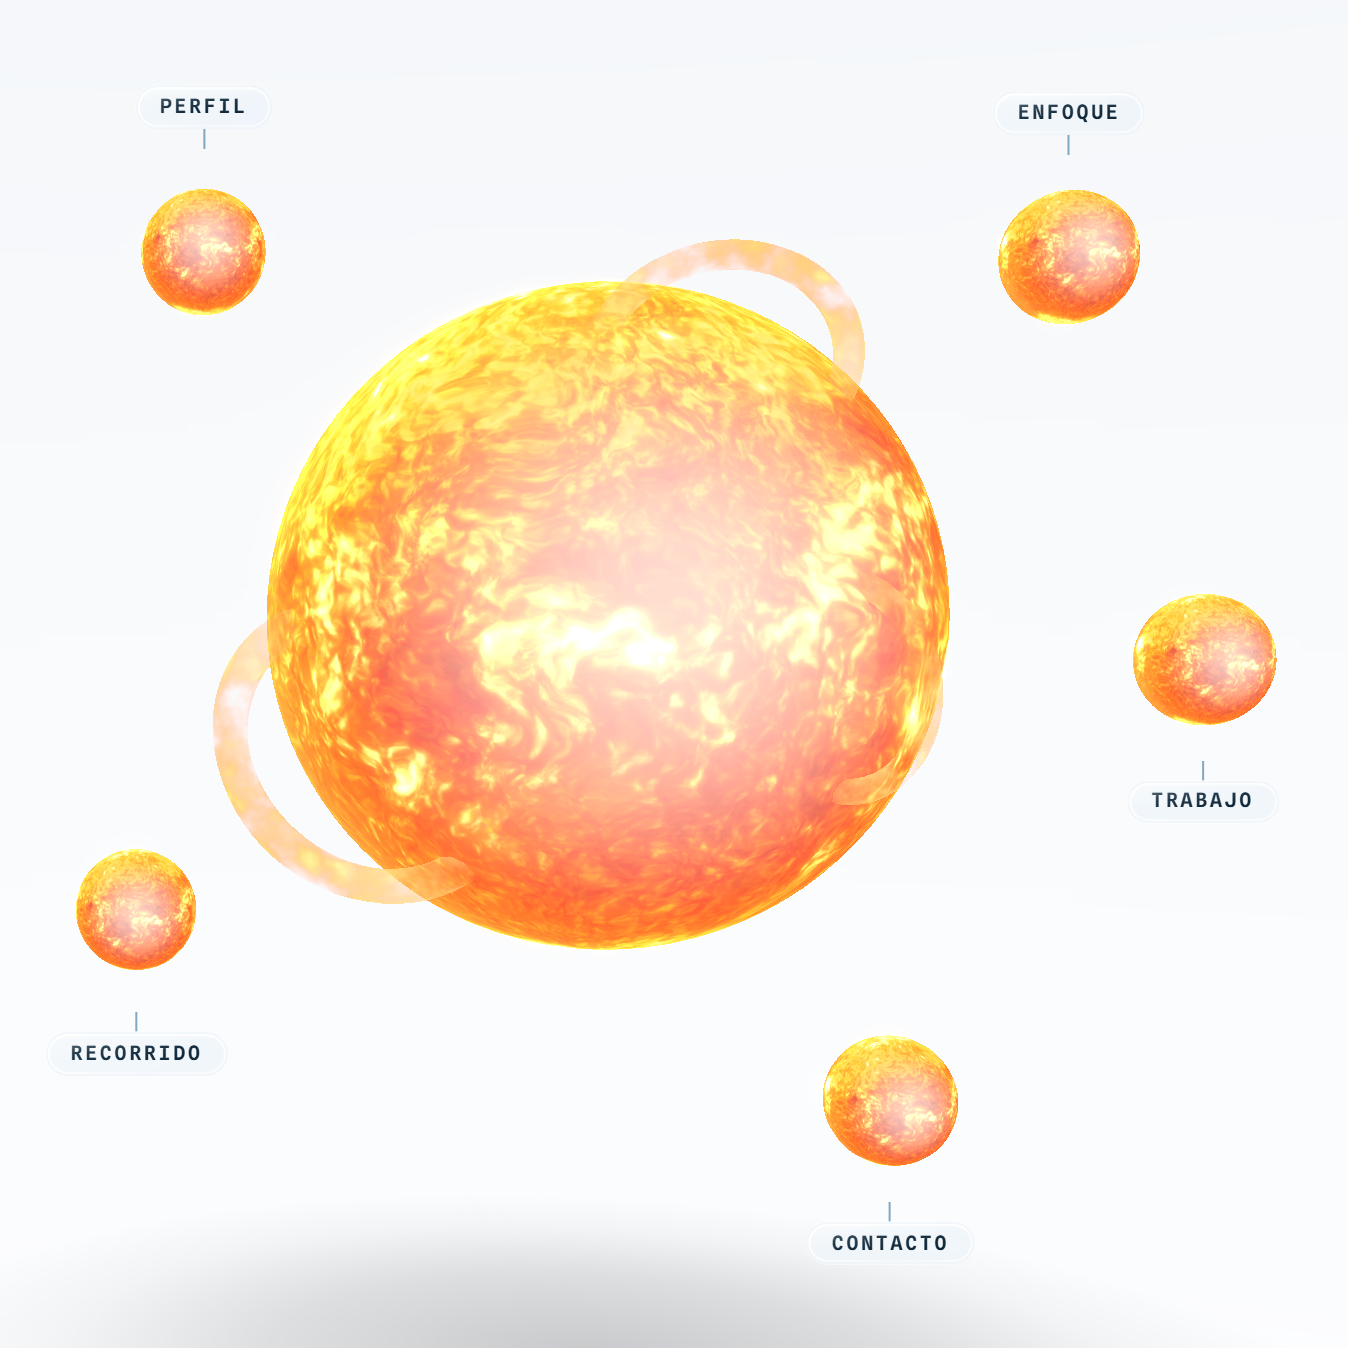
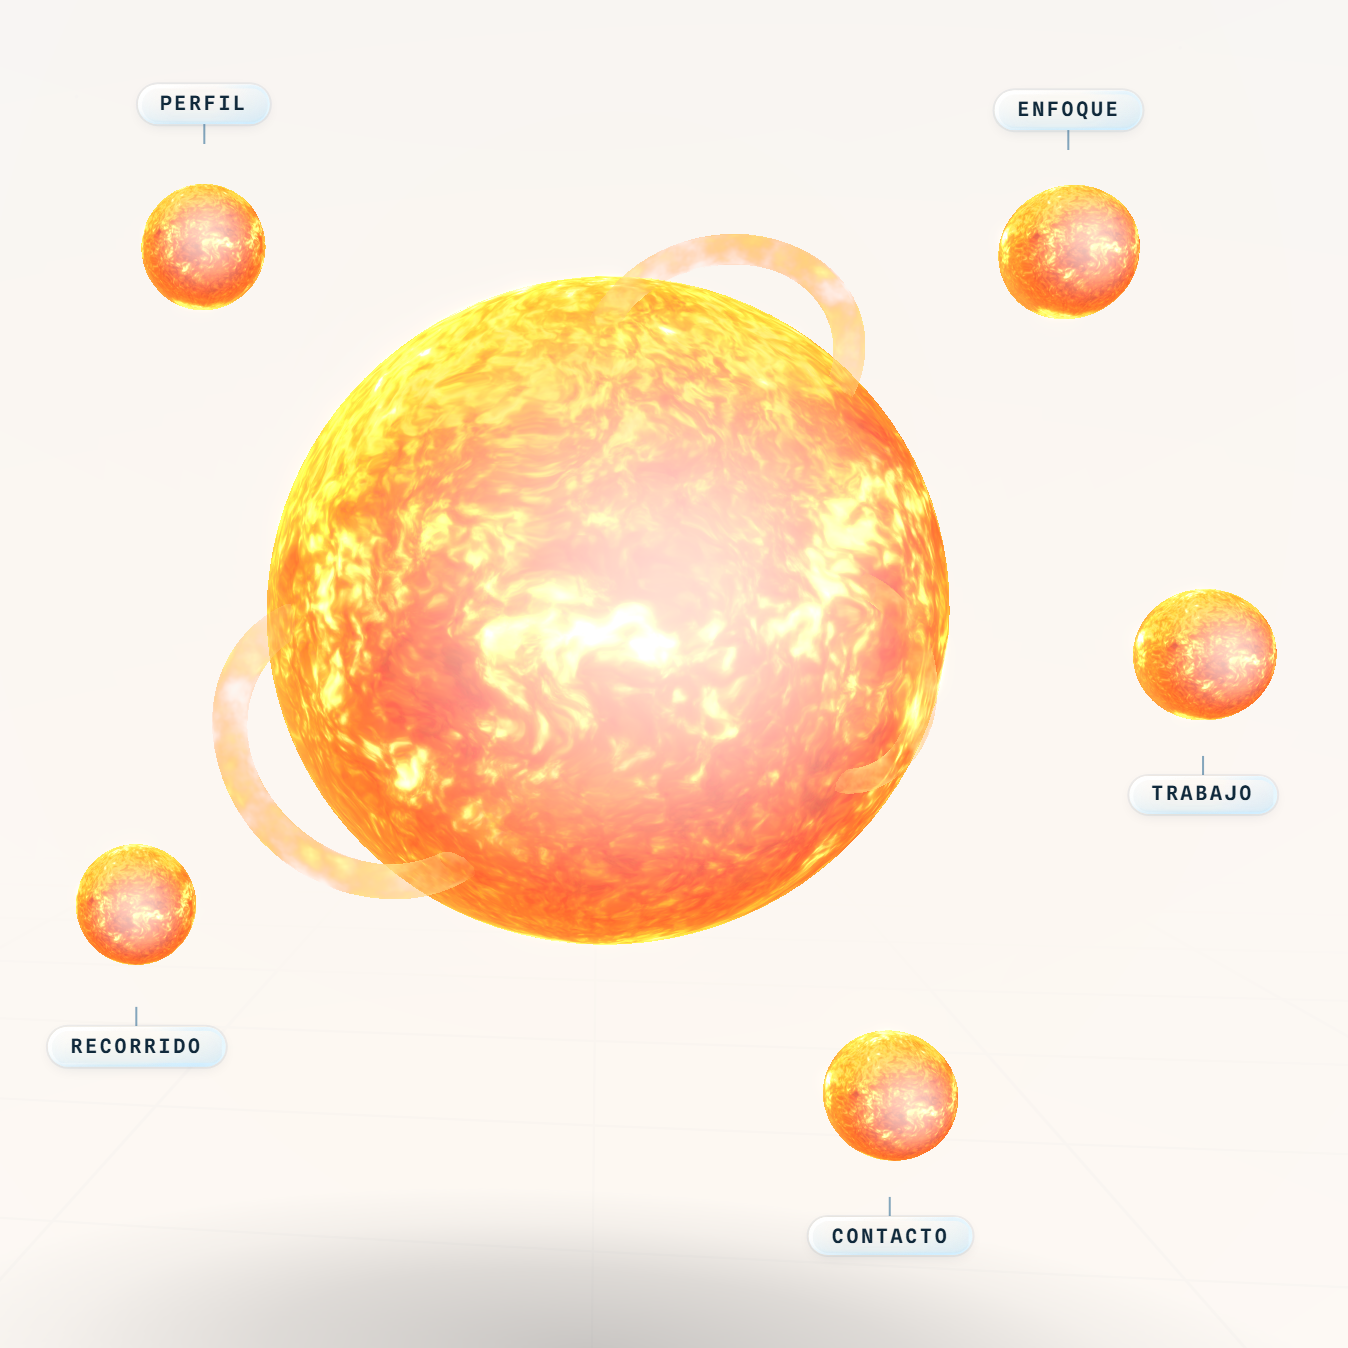
v5.12.0 — Estudio con textura, vidrio interactivo y el Chrome del iPhone arreglado
El bug del iPhone era mío y grave: en iOS todos los navegadores son WebKit por
regla de Apple — "Chrome" en iPhone es Safari con otra cara y su UA dice CriOS.
Mi detección lo trataba como Chromium, le escribía la cadena con url() y WebKit
descartaba la declaración entera: ni lente ni blur, solo transparencia (lo que
Feli veía). iOS ahora es siempre frost. Verificado con el UA real de CriOS:
motor frost, cero cadenas inline, blur vivo.

El tirón del interlineado del nombre era matemática: con 90ms de delay entre
líneas el gap no es monótono — la de arriba aterriza primero y la de abajo
sigue subiendo su resto, cerrando el gap al final. Mismo reloj para las dos
(la cascada la dan las letras). Verificado muestreando el gap real: 134.5 →
138.2px monótono, retroceso 0.00px, termina en el máximo y se queda.

Las ideas aprobadas:
1. Estudio con textura (GLSL): grilla técnica en el piso (gnomónica, AA por
   fwidth, doble desvanecido) + puntos sutiles en la pared. La lente necesita
   detalle que doblar y ahora lo tiene siempre.
2. Resplandor del sol: lobe cálido en la pared + pileta en el piso, después de
   la grilla (la entibia). Todo < 1.0: el bloom no florece.
3. CTA prominente (tinted glass): Hablemos con la cara al azul de identidad,
   AA verificado. Sigue siendo vidrio: la lente dobla detrás del tinte.
4. Vidrio interactivo: al presionar, la lupa se hunde (depth ×1.8, strength
   ×1.4, CA +2) y vuelve al soltar. Cadenas precalculadas, listeners una vez.
[…]

diff --git a/app/globals.css b/app/globals.css
@@ -318,11 +318,16 @@ body {
   font-variation-settings: "wght" var(--w);
 }
 
-/* Entrada: la línea sube y cada letra se forma, en cascada. */
+/* Entrada: las líneas suben JUNTAS (mismo reloj, sin delay por línea) y cada
+   letra se forma en cascada. El delay de 90ms que había acá era el "tirón" que
+   reportó Felipe: la línea de arriba aterrizaba primero y la de abajo seguía
+   subiendo su resto — y subir la de abajo CIERRA el interlineado al final.
+   Con el mismo reloj y la de arriba subiendo el doble (--sube), el gap crece
+   monótono de 0.86 a 0.95 y se queda en el pico. La cascada la siguen dando
+   las letras (nombre-forma, índice global). */
 .nombre.is-in .nombre__linea {
   opacity: 1;
   animation: nombre-sube 1s cubic-bezier(0.16, 1, 0.3, 1) backwards;
-  animation-delay: calc(var(--l, 0) * 90ms);
 }
 .nombre.is-in .nombre__letra {
   animation: nombre-forma 0.9s cubic-bezier(0.16, 1, 0.3, 1) backwards;
@@ -422,19 +427,37 @@ body {
      plana refleja el estudio; entra fuerte arriba-izquierda, se apaga en el
      medio y vuelve tenue abajo-derecha, coherente con el bisel del ::after). */
   background-color: var(--glass-bg);
-  /* El REFLEJO de cara (las fotos de referencia de Felipe: paneles de vidrio
-     con un barrido blanco diagonal bien visible). Dos luces: la entrada fuerte
-     por arriba-izquierda y una réplica FRÍA (celeste, el cielo reflejado) por
-     abajo-derecha. Pinta DETRÁS de los hijos: nunca vela texto ni capturas. */
-  background-image: linear-gradient(
-    115deg,
-    rgba(255, 255, 255, 0.5) 0%,
-    rgba(255, 255, 255, 0.16) 18%,
-    rgba(255, 255, 255, 0) 34%,
-    rgba(255, 255, 255, 0) 58%,
-    rgba(214, 238, 252, 0.22) 78%,
-    rgba(214, 238, 252, 0.06) 100%
-  );
+  /* Dos capas de luz, pintadas DETRÁS de los hijos (nunca velan texto ni
+     capturas):
+     1. El BARRIDO en hover: una línea de luz diagonal que cruza el vidrio,
+        como la luz corriéndose sobre un vidrio real al inclinarlo. En reposo
+        espera fuera de cuadro (-160%); .glass-hover:hover la hace viajar.
+     2. El REFLEJO de cara (las fotos de referencia de Felipe): entrada fuerte
+        por arriba-izquierda y réplica FRÍA (el cielo) por abajo-derecha. */
+  background-image:
+    linear-gradient(
+      105deg,
+      rgba(255, 255, 255, 0) 42%,
+      rgba(255, 255, 255, 0.5) 50%,
+      rgba(210, 240, 255, 0.28) 55%,
+      rgba(255, 255, 255, 0) 62%
+    ),
+    linear-gradient(
+      115deg,
+      rgba(255, 255, 255, 0.5) 0%,
+      rgba(255, 255, 255, 0.16) 18%,
+      rgba(255, 255, 255, 0) 34%,
+      rgba(255, 255, 255, 0) 58%,
+      rgba(214, 238, 252, 0.22) 78%,
+      rgba(214, 238, 252, 0.06) 100%
+    );
+  background-size:
+    240% 100%,
+    100% 100%;
+  background-position:
+    -160% 0,
+    0 0;
+  background-repeat: no-repeat;
   /* Frost: blur bajo + saturación (lo de atrás se ablanda pero SE VE). Sin
      brightness: aclarar el backdrop es lo que lo volvía plástico lechoso. */
   -webkit-backdrop-filter: blur(var(--glass-blur)) saturate(170%);
@@ -526,17 +549,36 @@ html[data-lente-motor="frost"] .glass::before {
 .glass-pill {
   border-radius: 9999px;
 }
+/* Vidrio PROMINENTE (el "tinted glass" de Apple): la cara toma el azul de la
+   identidad con alpha — sigue siendo vidrio (el fondo pasa, la lente dobla, el
+   canto brilla) pero de COLOR, y por eso se lee como vidrio incluso sobre el
+   estudio blanco. Para el CTA principal. El texto va claro: 0.78 de alpha
+   sobre blanco compone ~#425f80 → contraste AA con #f2f8fc. */
+.glass-prominent {
+  background-color: rgba(11, 83, 133, 0.78);
+  color: #f2f8fc;
+}
 @media (hover: hover) {
   .glass-hover {
     transition:
       background-color 0.3s ease,
       box-shadow 0.3s ease,
+      background-position 0.9s cubic-bezier(0.25, 0.6, 0.3, 1),
       transform 0.3s cubic-bezier(0.2, 0.6, 0.2, 1);
   }
   .glass-hover:hover {
     background-color: var(--glass-bg-2);
     box-shadow: var(--glass-drop-hover), var(--glass-glints);
     transform: translateY(-2px);
+    /* El BARRIDO especular: la línea de luz cruza el vidrio en diagonal (la
+       primera capa de background viaja de -160% a 160%; la cara queda quieta). */
+    background-position:
+      160% 0,
+      0 0;
+  }
+  /* El tintado conserva su cara azul al hover (no la de vidrio claro). */
+  .glass-prominent.glass-hover:hover {
+    background-color: rgba(13, 92, 148, 0.85);
   }
 }
 

diff --git a/components/ui/LiquidGlass.tsx b/components/ui/LiquidGlass.tsx
@@ -23,15 +23,30 @@ import { filtroLente, paramsPara } from "@/lib/lente";
  * de la fuente. Se regenera al redimensionar; el costo es armar un string.
  */
 
-/** ¿Chromium? Es el único motor que aplica filtros SVG en backdrop-filter.
- * Detección por UA como el componente de referencia: no hay feature-detect
- * confiable (Safari PARSEA `backdrop-filter: url()` como válido y después lo
- * ignora o lo rompe, así que CSS.supports miente). */
+/** ¿Chromium DE VERDAD? Es el único motor que aplica filtros SVG en
+ * backdrop-filter. Detección por UA como el componente de referencia: no hay
+ * feature-detect confiable (Safari PARSEA `backdrop-filter: url()` como válido
+ * y después lo descarta, así que CSS.supports miente).
+ *
+ * La trampa que rompió el celular de Feli: en iOS TODOS los navegadores son
+ * WebKit por regla de Apple — "Chrome" en iPhone es Safari con otra cara y su
+ * UA dice `CriOS` (Edge dice `EdgiOS`). La primera versión trataba CriOS como
+ * Chromium, le escribía la cadena con url()... y WebKit descartaba la
+ * declaración ENTERA: ni lente ni blur, solo transparencia. iOS es frost,
+ * siempre, sin importar el nombre del navegador. */
 function soportaLente(): boolean {
   const ua = navigator.userAgent.toLowerCase();
-  const esChromium = /chrome|chromium|crios|edg/.test(ua) && !/firefox|fxios/.test(ua);
+  // iPad moderno se disfraza de Mac; lo delata el multitouch.
+  const esIOS =
+    /iphone|ipad|ipod/.test(ua) ||
+    (ua.includes("mac") && navigator.maxTouchPoints > 1);
+  if (esIOS) return false;
+  const esChromium = /chrome|chromium|edg/.test(ua) && !/firefox/.test(ua);
   return esChromium && CSS.supports("backdrop-filter", "blur(1px)");
 }
+
+/** Las dos cadenas de cada elemento: reposo y PRESIONADO (la lupa se hunde). */
+const cadenas = new WeakMap<HTMLElement, { normal: string; honda: string }>();
 
 /** Mutación imperativa fuera del componente (regla react-hooks/immutability). */
 function aplicarLente(el: HTMLElement) {
@@ -44,14 +59,47 @@ function aplicarLente(el: HTMLElement) {
   const radio = parseFloat(getComputedStyle(el).borderTopLeftRadius) || 0;
   // data-lente="suave" = vidrio en flujo (cards en grillas): lente contenida
   // para no traer a la card vecina adentro. Ver paramsPara.
-  const p = paramsPara(r.width, r.height, radio, el.dataset.lente === "suave");
+  const suave = el.dataset.lente === "suave";
+  const p = paramsPara(r.width, r.height, radio, suave);
   const b = Math.min(p.width, p.height) < 30 ? 1 : 2;
   // Sin brightness: aclarar el backdrop es lo que vuelve "leche" al vidrio
   // (calibración v5.8); el saturate acompaña al frost de la clase (170%).
-  const filtro = `blur(${b / 2}px) url('${filtroLente(p)}') blur(${b}px) saturate(1.7)`;
-  el.style.backdropFilter = filtro;
+  const arma = (q: typeof p) =>
+    `blur(${b / 2}px) url('${filtroLente(q)}') blur(${b}px) saturate(1.7)`;
+  const normal = arma(p);
+  el.style.backdropFilter = normal;
   // TS/DOM no expone webkitBackdropFilter tipado; en Chromium alcanza el estándar.
   el.dataset.liquid = clave;
+
+  if (suave) return;
+  // VIDRIO INTERACTIVO (el .interactive() de SwiftUI, el "clicked" del
+  // componente de referencia): al PRESIONAR, la lupa se hunde — más espesor
+  // óptico y más aberración por un instante. Solo el vidrio flotante (el
+  // suave no es un control). Las cadenas se precalculan acá (nada de armar
+  // data URIs en el pointerdown) y los listeners se cablean UNA vez.
+  cadenas.set(el, {
+    normal,
+    honda: arma({
+      ...p,
+      depth: Math.round(p.depth * 1.8),
+      strength: Math.round(p.strength * 1.4),
+      chromaticAberration: p.chromaticAberration + 2,
+    }),
+  });
+  if (el.dataset.lenteInteractiva) return;
+  el.dataset.lenteInteractiva = "1";
+  const hundir = () => {
+    const c = cadenas.get(el);
+    if (c) el.style.backdropFilter = c.honda;
+  };
+  const soltar = () => {
+    const c = cadenas.get(el);
+    if (c) el.style.backdropFilter = c.normal;
+  };
+  el.addEventListener("pointerdown", hundir);
+  el.addEventListener("pointerup", soltar);
+  el.addEventListener("pointerleave", soltar);
+  el.addEventListener("pointercancel", soltar);
 }
 
 export function LiquidGlass() {

diff --git a/components/three/Studio.tsx b/components/three/Studio.tsx
@@ -32,18 +32,65 @@ const domeVertex = /* glsl */ `
 `;
 /* Gradiente de ciclorama: piso casi blanco → pared gris muy claro, con un
  * apenas-más-oscuro en el rincón inferior (la unión piso-pared). Sin tonemap
- * (shader crudo) → el blanco se mantiene blanco. Sin `precision` a mano:
- * three antepone la máxima soportada (highp explícito no compila en GPUs sin
- * highp fragment y la cúpula desaparecería). */
+ * (shader crudo) → el blanco se mantiene blanco y NADA llega a 1.0 (el bloom
+ * del canvas corta en 1.0: el estudio no debe florecer jamás). Sin `precision`
+ * a mano: three antepone la máxima soportada (highp explícito no compila en
+ * GPUs sin highp fragment y la cúpula desaparecería).
+ *
+ * v5.12 — el estudio deja de ser liso, por pedido de Felipe y por el VIDRIO
+ * (la lente del Liquid Glass solo se ve si atrás hay detalle que doblar):
+ *  - PISO: grilla fina tipo papel técnico. El rayo del ciclorama se proyecta
+ *    sobre el plano del piso (gnomónica: p = dir.xz/|dir.y|) → líneas RECTAS
+ *    con perspectiva real, como cinta de marcado de un estudio fotográfico.
+ *    AA por fwidth, y doble desvanecido (horizonte + distancia).
+ *  - PARED: matriz de puntos apenas visible (proyección al plano frontal).
+ *  - RESPLANDOR: el sol tiñe la pared de atrás y el piso cercano con un lobe
+ *    cálido difuso. Además de clima, es un gradiente de COLOR: la aberración
+ *    cromática del vidrio lo agarra muchísimo mejor que el gris parejo. */
 const domeFragment = /* glsl */ `
   varying vec3 vDir;
+
+  /* Malla de líneas con AA sobre coords proyectadas (una línea por unidad). */
+  float lineas(vec2 p) {
+    vec2 g = abs(fract(p - 0.5) - 0.5) / fwidth(p);
+    float d = min(g.x, g.y);
+    return 1.0 - smoothstep(0.6, 1.6, d);
+  }
+
   void main() {
-    float y = clamp(vDir.y * 0.5 + 0.5, 0.0, 1.0); // 0 abajo .. 1 arriba
+    vec3 dir = normalize(vDir);
+    float y = clamp(dir.y * 0.5 + 0.5, 0.0, 1.0); // 0 abajo .. 1 arriba
     vec3 floorC = vec3(0.972, 0.980, 0.990);
     vec3 wallC  = vec3(0.843, 0.874, 0.912);
     vec3 c = mix(floorC, wallC, smoothstep(0.30, 1.0, y));
     c = mix(c, wallC * 0.965, smoothstep(0.24, 0.0, y) * 0.5);
-    gl_FragColor = vec4(c, 1.0);
+
+    /* PISO: grilla técnica (solo por debajo del horizonte). */
+    if (dir.y < -0.045) {
+      vec2 p = dir.xz / -dir.y * 1.15;
+      float fade = smoothstep(0.045, 0.16, -dir.y)
+                 * (1.0 - smoothstep(4.0, 11.0, length(p)));
+      c = mix(c, vec3(0.665, 0.735, 0.80), lineas(p) * fade * 0.16);
+    }
+
+    /* PARED: puntos sutiles (plano frontal, donde mira la cámara). */
+    if (dir.z < -0.1 && dir.y > 0.02) {
+      vec2 q = vec2(dir.x, dir.y) / -dir.z * 2.1;
+      vec2 celda = fract(q) - 0.5;
+      float punto = 1.0 - smoothstep(1.1, 2.2, length(celda) / max(fwidth(q.x), 1e-4));
+      float fadeW = smoothstep(0.02, 0.14, dir.y)
+                  * (1.0 - smoothstep(2.2, 5.0, length(q)));
+      c = mix(c, vec3(0.70, 0.77, 0.84), punto * fadeW * 0.10);
+    }
+
+    /* RESPLANDOR del sol: va DESPUÉS de la grilla (también la entibia — una
+       línea bajo luz naranja se ve naranja, no gris). Tope < 1.0, sin bloom. */
+    float lobe = pow(clamp(dot(dir, normalize(vec3(0.0, -0.10, -1.0))), 0.0, 1.0), 3.5);
+    c = mix(c, vec3(0.998, 0.878, 0.746), lobe * 0.42);
+    float pileta = pow(clamp(dot(dir, normalize(vec3(0.0, -1.0, -0.35))), 0.0, 1.0), 7.0);
+    c = mix(c, vec3(0.995, 0.885, 0.77), pileta * 0.30);
+
+    gl_FragColor = vec4(min(c, vec3(0.999)), 1.0);
   }
 `;
 

diff --git a/components/sections/GraphHome.tsx b/components/sections/GraphHome.tsx
@@ -641,15 +641,16 @@ export function GraphHome({ children }: { children: ReactNode }) {
                   Ver el trabajo
                   <ArrowDown className="size-4 text-acento transition-transform group-hover:translate-y-0.5" />
                 </button>
+                {/* CTA principal en vidrio PROMINENTE (tintado de acento):
+                    jerarquía sin perder el material. */}
                 <button
                   type="button"
                   data-lente
-
                   onClick={() => goto("contacto")}
-                  className="glass glass-hover glass-pill group inline-flex items-center gap-2 px-6 py-3.5 font-mono text-xs tracking-wide text-chalk"
+                  className="glass glass-prominent glass-hover glass-pill group inline-flex items-center gap-2 px-6 py-3.5 font-mono text-xs tracking-wide"
                 >
                   Hablemos
-                  <ArrowUpRight className="size-4 text-acento transition-transform group-hover:translate-x-0.5 group-hover:-translate-y-0.5" />
+                  <ArrowUpRight className="size-4 transition-transform group-hover:translate-x-0.5 group-hover:-translate-y-0.5" />
                 </button>
               </div>
             </div>

diff --git a/DECISIONS.md b/DECISIONS.md
@@ -3,7 +3,7 @@
 Registro de las decisiones no triviales del proyecto (diseño, arquitectura,
 dependencias y bugs). Se actualiza en cada fase.
 
-> La sección **v5.11** es la vigente. Debajo quedan v3.2, v3.1, v3.0, v2.x y
+> La sección **v5.12** es la vigente. Debajo quedan v3.2, v3.1, v3.0, v2.x y
 > la v1 como registro histórico.
 
 ---
@@ -1264,6 +1264,56 @@ Endurecimiento GPU, además (cinturón y tiradores para "todos los dispositivos"
 en los tres) · **SwiftShader** (GPU en blocklist, el caso real de la netbook):
 sol visible, 0 errores de consola · gap del nombre medido (arriba) · hover, HUD,
 chips, cards y página de proyecto inspeccionados de cerca en 2x · `smoke`.
+---
+
+## v5.12 — El estudio con textura, el vidrio interactivo y el iPhone arreglado
+
+### El bug del "Chrome sin blur" en el iPhone (era mío, y grave)
+Felipe reportó que en Chrome de su iPhone no había blur, solo transparencia.
+Causa: en iOS TODOS los navegadores son WebKit por regla de Apple — "Chrome"
+en iPhone es Safari con otra cara y su UA dice `CriOS`. Mi detección trataba
+CriOS como Chromium, le escribía la cadena con url()... y WebKit descartaba la
+declaración ENTERA: ni lente ni blur. Ahora iOS (iphone/ipad/ipod, y el iPad
+que se disfraza de Mac pero lo delata el multitouch) es SIEMPRE frost.
+Verificado con el UA real de CriOS: motor frost, cero cadenas inline, blur
+vivo. La distorsión real en iOS sigue siendo imposible (limitación de WebKit,
+no nuestra): ahí queda el frost + canto + reflejos, que es el mismo fallback
+del componente de referencia.
+
+### El tirón del interlineado del nombre (matemática, no estilo)
+La v5.8 dejaba el interlineado en el pico (0.95) con las líneas subiendo
+distancias distintas — pero mantenía un delay de 90ms entre líneas. Con ese
+desfase el gap NO es monótono: la línea de arriba aterriza primero y la de
+abajo sigue subiendo su resto, y subir la de abajo CIERRA el gap al final (el
+"tirón" que Felipe veía). Fix: mismo reloj para las dos líneas (sin delay); la
+cascada la siguen dando las letras. Verificado muestreando el gap real durante
+la entrada: 134.5 → 138.2px monótono, retroceso 0.00px, termina en el máximo.
+
+### Las ideas aprobadas, implementadas
+1. **Estudio con textura** (GLSL en el ciclorama): grilla técnica en el piso
+   (proyección gnomónica sobre el plano del piso → líneas RECTAS en perspectiva
+   real, AA por fwidth, doble desvanecido) + matriz de puntos sutil en la pared
+   frontal. No es solo estética: la lente del vidrio necesita detalle que
+   doblar, y ahora lo tiene en todo momento.
+2. **Resplandor del sol**: lobe cálido en la pared de atrás + pileta de luz en
+   el piso, DESPUÉS de la grilla (la entibia: una línea bajo luz naranja se ve
+   naranja). Todo < 1.0: el bloom (umbral 1.0) no florece jamás. Además de
+   clima, es un gradiente de COLOR: la aberración cromática lo agarra mucho
+   mejor que el gris.
+3. **CTA prominente** (el tinted glass de Apple): "Hablemos" con la cara al
+   azul de identidad (0.78 sobre blanco ≈ #425f80 → AA con texto #f2f8fc).
+   Sigue siendo vidrio: la lente dobla el fondo detrás del tinte.
+4. **Vidrio interactivo** (.interactive() de SwiftUI): al PRESIONAR cualquier
+   vidrio flotante, la lupa se HUNDE (depth ×1.8, strength ×1.4, CA +2) y
+   vuelve al soltar. Cadenas precalculadas (nada se arma en el pointerdown),
+   listeners cableados una sola vez. El vidrio suave no lo hace: no es control.
+5. **Barrido especular en hover**: una línea de luz diagonal cruza el vidrio
+   (capa extra de background que viaja de -160% a 160% en 0.9s). Solo
+   `background-position`: compositor, cero layout.
+
+Póster regenerado (el estudio cambió). Batería completa verde, perf 50 FPS en
+SwiftShader con la grilla y el resplandor incluidos.
+
 ---
 
 ## v5.11 — El reflejo especular, el azul intencional y la lente que no fantasmea
